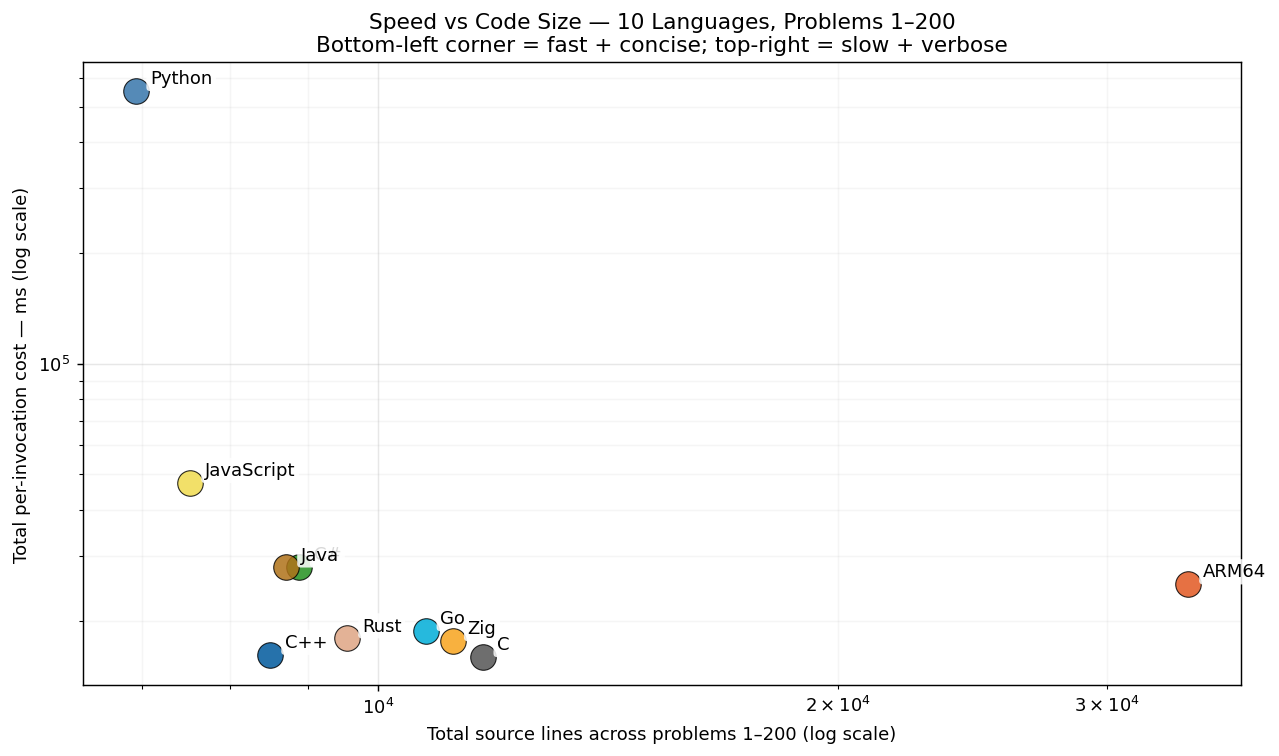
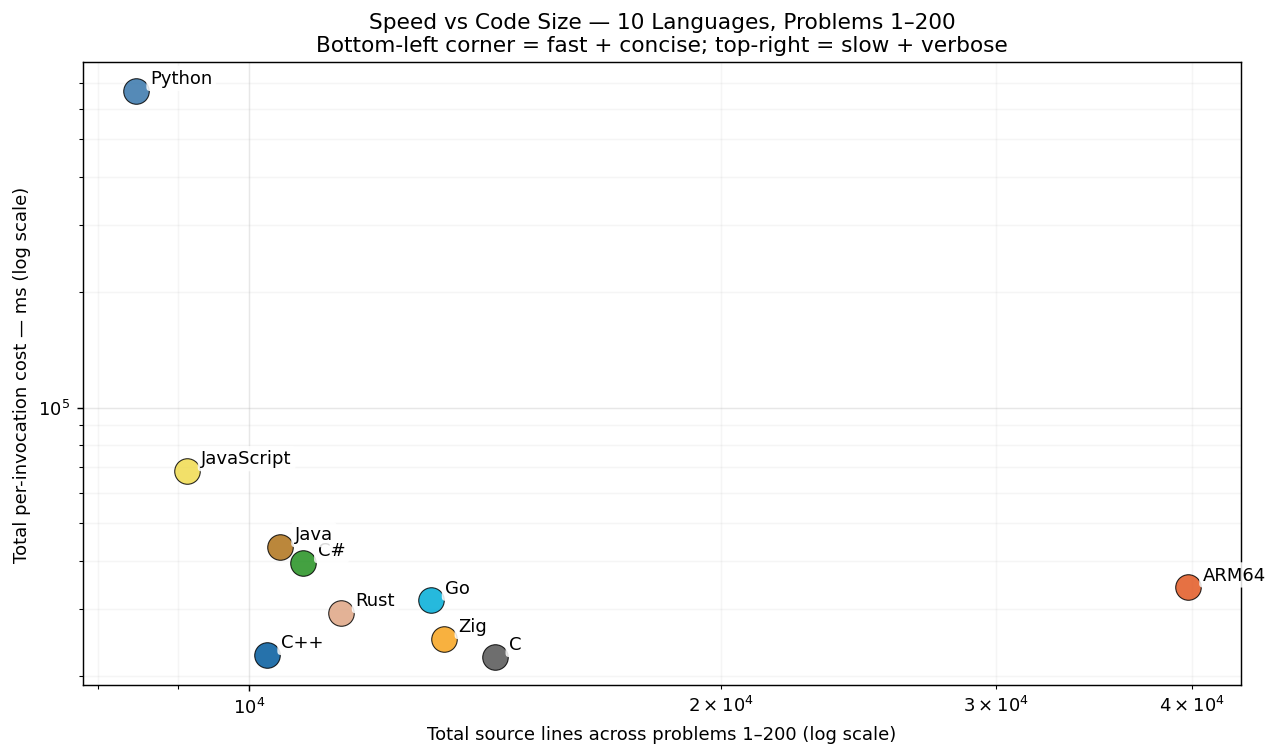
report: add * marker for partial-measurement cells (samples<10) + footnote; publish B4 +85 cells, coverage 1995/2000 (5 p170 cells remain)

diff --git a/report.py b/report.py
@@ -164,6 +164,22 @@ def status_of(entry: dict) -> str:
     return entry.get("status", "missing") or "missing"
 
 
+def samples_of(entry: dict):
+    """Iteration count behind this measurement.
+
+    Suite-standard is `iters=10`; any cell with samples<10 is a partial
+    measurement (median is still meaningful for >1s problems, but variance
+    estimate is degraded). Cells with samples<10 are marked with `*` in
+    the per-problem detail table.
+
+    Returns int or None (missing).
+    """
+    if not entry or entry.get("status") != "pass":
+        return None
+    s = entry.get("samples")
+    return int(s) if s is not None else None
+
+
 def fmt_time(ns: int) -> str:
     """Human-readable nanoseconds.
 
@@ -209,6 +225,7 @@ def aggregate() -> dict:
         per_prob_ns = {p: time_ns(probs.get(p, {})) for p in SCOPE_PROBLEMS}
         per_prob_lines = {p: source_lines(probs.get(p, {})) for p in SCOPE_PROBLEMS}
         per_prob_status = {p: status_of(probs.get(p, {})) for p in SCOPE_PROBLEMS}
+        per_prob_samples = {p: samples_of(probs.get(p, {})) for p in SCOPE_PROBLEMS}
         total_ns = sum(v for v in per_prob_ns.values() if v is not None)
         total_lines = sum(per_prob_lines.values())
         missing = sum(1 for p in SCOPE_PROBLEMS if per_prob_ns[p] is None)
@@ -216,6 +233,7 @@ def aggregate() -> dict:
             "per_problem_ns": per_prob_ns,
             "per_problem_lines": per_prob_lines,
             "per_problem_status": per_prob_status,
+            "per_problem_samples": per_prob_samples,
             "total_ns": total_ns,
             "total_lines": total_lines,
             "missing": missing,
@@ -763,6 +781,9 @@ def render_results_md(agg: dict) -> str:
     display_langs = LANG_DISPLAY_ORDER
     header = "| Problem | " + " | ".join(DISPLAY[l] for l in display_langs) + " |"
     sep    = "|---------|" + "|".join(["----:"] * len(display_langs)) + "|"
+    # Track whether any partial-measurement cells exist so we only emit the
+    # footnote when the marker actually appears in the tables.
+    any_partial = False
     for band_probs in _bands(SCOPE_PROBLEMS, BAND_SIZE):
         md.append(f"### Problems {band_probs[0]}–{band_probs[-1]}")
         md.append("")
@@ -772,8 +793,38 @@ def render_results_md(agg: dict) -> str:
             cells = []
             for lang in display_langs:
                 ns = agg[lang]["per_problem_ns"][p]
-                cells.append(fmt_time(ns) if ns is not None else "—")
+                if ns is None:
+                    cells.append("—")
+                else:
+                    s = agg[lang]["per_problem_samples"][p]
+                    # Suite-standard iters=10; mark partial measurements so a
+                    # reader can tell at-a-glance which cells haven't been
+                    # bench'd to full sample count.
+                    suffix = "*" if (s is not None and s < 10) else ""
+                    cells.append(fmt_time(ns) + suffix)
             md.append(f"| **p{p}** | " + " | ".join(cells) + " |")
+        md.append("")
+
+        # Detect any partial cell in this band for the footnote gate.
+        if not any_partial:
+            for p in band_probs:
+                for lang in display_langs:
+                    s = agg[lang]["per_problem_samples"][p]
+                    if s is not None and s < 10:
+                        any_partial = True
+                        break
+                if any_partial:
+                    break
+
+    if any_partial:
+        md.append(
+            "> \\* — *partial measurement*: cell was bench'd with fewer than the "
+            "suite-standard 10 iterations (typically 1 or 3, for heavy problems "
+            "where iters=10 would exceed the per-chunk wall budget). The median "
+            "is still meaningful for >1s problems, but the variance estimate is "
+            "degraded. These cells are queued for a future uniform-iters=10 "
+            "re-bench pass."
+        )
         md.append("")
 
     md.append("## Method")

diff --git a/RESULTS.md b/RESULTS.md
@@ -1,37 +1,37 @@
 # Project Euler — Cross-Language Benchmarks
 
-> **Scope: 200 problems × 10 languages = 2000 cells, 1910 measured (95.5% coverage).**
-> The cross-language ranking below is computed over the **176-problem common set** (problems where every language has a passing measurement) — the apples-to-apples comparison surface.  Per-language coverage detail appears below the ranking.
+> **Scope: 200 problems × 10 languages = 2000 cells, 1995 measured (99.8% coverage).**
+> The cross-language ranking below is computed over the **199-problem common set** (problems where every language has a passing measurement) — the apples-to-apples comparison surface.  Per-language coverage detail appears below the ranking.
 > Growing carefully — each new problem and language is audited for state-leak
 > safety, verified for answer correctness, and added only when it cleanly fits the
 > measurement methodology.  See [JOURNEY.md](JOURNEY.md) for the full story of how
 > we got here, including the reset from 200+ problems back to a verified 10×10
 > core, then the disciplined expansion to today's 200-problem scope.
 
-## Per-Invocation Cost (Common Set, 176 of 200 problems)
+## Per-Invocation Cost (Common Set, 199 of 200 problems)
 
 We run each program 10 times in fresh OS processes (no warmup, no shared state).
 Each invocation pays full startup + algorithm cost — the cost a real CLI / cron /
 shell-loop user actually pays.  The median wall time across the 10 invocations is
-the headline per-problem number, and the table sums over the 176-problem
+the headline per-problem number, and the table sums over the 199-problem
 common set so partial-coverage languages aren't artificially "faster" than fully-
 covered ones.  Per-language individual coverage (which may be ≥ the common set) is
 shown in the coverage block further down.
 
 ![Per-Invocation Cost](charts/per_iter_total.png)
 
-| Rank | Language | Total (176-problem common set) | Lines of code | vs Fastest |
+| Rank | Language | Total (199-problem common set) | Lines of code | vs Fastest |
 |------|----------|--------------------:|--------------:|-----------:|
-| 1 | **C** | 15.95 s | 11,703 | 1.00× |
-| 2 | **C++** | 16.17 s | 8,498 | 1.01× |
-| 3 | **Zig** | 17.62 s | 11,195 | 1.10× |
-| 4 | **Rust** | 17.93 s | 9,544 | 1.12× |
-| 5 | **Go** | 18.77 s | 10,741 | 1.18× |
-| 6 | **ARM64** | 25.15 s | 33,921 | 1.58× |
-| 7 | **Java** | 27.96 s | 8,705 | 1.75× |
-| 8 | **C#** | 27.99 s | 8,874 | 1.75× |
-| 9 | **JavaScript** | 47.47 s | 7,533 | 2.98× |
-| 10 | **Python** | 553.20 s | 6,934 | 34.68× |
+| 1 | **C** | 22.47 s | 14,346 | 1.00× |
+| 2 | **C++** | 22.75 s | 10,256 | 1.01× |
+| 3 | **Zig** | 25.02 s | 13,310 | 1.11× |
+| 4 | **Rust** | 29.22 s | 11,443 | 1.30× |
+| 5 | **Go** | 31.49 s | 13,062 | 1.40× |
+| 6 | **ARM64** | 34.10 s | 39,793 | 1.52× |
+| 7 | **C#** | 39.45 s | 10,825 | 1.76× |
+| 8 | **Java** | 43.42 s | 10,468 | 1.93× |
+| 9 | **JavaScript** | 68.46 s | 9,123 | 3.05× |
+| 10 | **Python** | 669.59 s | 8,459 | 29.80× |
 
 ## Speed vs Code Size
 
@@ -213,80 +213,82 @@ fixed tier order (native → managed → interpreted).
 | **p124** | 7.84 ms | 7.25 ms | 5.40 ms | 2.45 ms | 6.86 ms | 13.01 ms | 9.55 ms | 17.27 ms | 16.67 ms | 36.21 ms |
 | **p125** | 3.11 ms | 2.60 ms | 2.37 ms | 3.06 ms | 2.45 ms | 3.09 ms | 3.88 ms | 6.12 ms | 63.70 ms | 62.63 ms |
 | **p126** | 3.42 ms | 2.39 ms | 2.18 ms | 2.45 ms | 2.30 ms | 4.63 ms | 7.81 ms | 8.90 ms | 12.92 ms | 932.49 ms |
-| **p127** | 37.07 ms | 31.41 ms | — | — | 29.07 ms | 34.20 ms | — | — | — | 1.10 s |
-| **p128** | 8.53 ms | 6.97 ms | — | — | 6.63 ms | 6.94 ms | — | — | — | 272.33 ms |
+| **p127** | 37.07 ms | 31.41 ms | 29.73 ms | 28.92 ms | 29.07 ms | 34.20 ms | 44.76 ms | 55.95 ms | 55.20 ms | 1.10 s |
+| **p128** | 8.53 ms | 6.97 ms | 6.81 ms | 8.03 ms | 6.63 ms | 6.94 ms | 20.25 ms | 10.94 ms | 11.21 ms | 272.33 ms |
 | **p129** | 9.69 ms | 10.41 ms | 9.93 ms | 10.34 ms | 12.54 ms | 9.74 ms | 10.37 ms | 10.28 ms | 10.59 ms | 139.64 ms |
-| **p130** | 31.49 ms | 31.39 ms | — | — | 37.93 ms | 31.48 ms | — | — | — | 415.08 ms |
+| **p130** | 31.49 ms | 31.39 ms | 32.50 ms | 31.97 ms | 37.93 ms | 31.48 ms | 40.62 ms | 31.61 ms | 35.60 ms | 415.08 ms |
 | **p131** | 42.0 µs | 31.5 µs | 40.0 µs | 38.4 µs | 31.2 µs | 32.1 µs | 295.4 µs | 245.6 µs | 224.1 µs | 1.20 ms |
-| **p132** | 3.40 ms | 3.26 ms | 4.12 ms | 3.30 ms | 4.45 ms | 3.38 ms | 4.41 ms | 28.82 ms | 12.93 ms | — |
+| **p132** | 3.40 ms | 3.26 ms | 4.12 ms | 3.30 ms | 4.45 ms | 3.38 ms | 4.41 ms | 28.82 ms | 12.93 ms | 74.27 ms |
 | **p133** | 2.89 ms | 2.10 ms | 2.84 ms | 3.26 ms | 2.37 ms | 2.21 ms | 3.40 ms | 26.33 ms | 11.20 ms | 22.24 ms |
 | **p134** | 6.17 ms | 5.87 ms | 7.42 ms | 7.30 ms | 6.16 ms | 6.28 ms | 7.84 ms | 73.24 ms | 34.77 ms | 157.17 ms |
 | **p135** | 4.66 ms | 3.46 ms | 3.74 ms | 3.67 ms | 3.11 ms | 4.60 ms | 4.38 ms | 8.62 ms | 9.37 ms | 353.35 ms |
-| **p136** | 640.13 ms | 494.10 ms | 446.25 ms | 555.54 ms | 490.94 ms | 533.67 ms | 654.83 ms | 669.97 ms | 963.87 ms | — |
+| **p136** | 640.13 ms | 494.10 ms | 446.25 ms | 555.54 ms | 490.94 ms | 533.67 ms | 654.83 ms | 669.97 ms | 963.87 ms | 26.64 s |
 | **p137** | 0 ns | 125 ns | 291 ns | 42 ns | 125 ns | 1.8 µs | 75.0 µs | 2.7 µs | 24.5 µs | 5.7 µs |
 | **p138** | 0 ns | 42 ns | 42 ns | 42 ns | 83 ns | 1.5 µs | 52.4 µs | 1.8 µs | 11.8 µs | 2.9 µs |
 | **p139** | 235.19 ms | 227.09 ms | 224.31 ms | 224.24 ms | 302.89 ms | 236.94 ms | 264.99 ms | 258.89 ms | 273.44 ms | 2.13 s |
-| **p140** | 8.0 µs | 3.4 µs | 4.5 µs | 5.6 µs | 2.2 µs | 7.1 µs | 1.29 ms | 167.7 µs | 160.0 µs | — |
-| **p141** | 1.48 s | 1.45 s | 1.44 s | 1.44 s | 1.97 s | 1.49 s | 1.60 s | 1.60 s | 1.76 s | 9.00 s |
+| **p140** | 8.0 µs | 3.4 µs | 4.5 µs | 5.6 µs | 2.2 µs | 7.1 µs | 1.29 ms | 167.7 µs | 160.0 µs | 70.8 µs |
+| **p141** | 1.48 s | 1.45 s | 1.44 s | 1.44 s | 1.97 s | 1.49 s | 1.60 s | 1.60 s | 1.76 s | 9.00 s* |
 | **p142** | 2.26 ms | 2.77 ms | 2.05 ms | 2.60 ms | 2.48 ms | 2.16 ms | 2.88 ms | 6.01 ms | 9.04 ms | 110.37 ms |
-| **p143** | 47.42 ms | 18.18 ms | — | — | 19.49 ms | 28.62 ms | — | — | — | — |
+| **p143** | 47.42 ms | 18.18 ms | 16.59 ms | 110.14 ms | 19.49 ms | 28.62 ms | 67.32 ms | 73.20 ms | 42.90 ms | 320.93 ms |
 | **p144** | 14.0 µs | 11.6 µs | 9.1 µs | 12.5 µs | 13.0 µs | 13.3 µs | 142.6 µs | 59.2 µs | 142.8 µs | 134.1 µs |
-| **p145** | 76.61 ms | 45.40 ms | 45.48 ms | 47.92 ms | 45.46 ms | 84.34 ms | 75.27 ms | 102.87 ms | 168.21 ms | — |
-| **p146** | 9.47 s | 2.85 s | 2.89 s | 2.94 s | 2.77 s | 2.93 s | 7.41 s | 4.09 s | 9.57 s | 19.21 s |
+| **p145** | 76.61 ms | 45.40 ms | 45.48 ms | 47.92 ms | 45.46 ms | 84.34 ms | 75.27 ms | 102.87 ms | 168.21 ms | 4.72 s |
+| **p146** | 9.47 s | 2.85 s | 2.89 s* | 2.94 s* | 2.77 s | 2.93 s | 7.41 s* | 4.09 s* | 9.57 s* | 19.21 s* |
 | **p147** | 5.09 ms | 1.43 ms | 1.99 ms | 6.17 ms | 2.63 ms | 3.34 ms | 4.80 ms | 7.64 ms | 9.26 ms | 528.01 ms |
 | **p148** | 0 ns | 42 ns | 167 ns | 3.2 µs | 42 ns | 5.0 µs | 128.7 µs | 3.1 µs | 37.2 µs | 8.1 µs |
-| **p149** | 42.95 ms | 44.93 ms | — | — | 48.34 ms | 52.98 ms | — | — | — | 2.01 s |
+| **p149** | 42.95 ms | 44.93 ms | 37.89 ms | 78.41 ms | 48.34 ms | 52.98 ms | 70.81 ms | 87.47 ms | 98.05 ms | 2.01 s |
 | **p150** | 127.03 ms | 158.85 ms | 158.33 ms | 179.99 ms | 123.28 ms | 226.44 ms | 232.78 ms | 242.33 ms | 553.92 ms | 16.64 s |
 | **p151** | 11.0 µs | 1.9 µs | 2.7 µs | 3.6 µs | 1.8 µs | 3.9 µs | 605.3 µs | 52.2 µs | 83.0 µs | 41.8 µs |
-| **p152** | 1.62 s | 783.50 ms | 754.11 ms | 707.69 ms | 766.73 ms | 1.22 s | 1.01 s | 887.04 ms | 5.66 s | 815.61 ms |
-| **p153** | 2.41 s | 2.38 s | 2.39 s | 2.31 s | 3.15 s | 2.43 s | 2.74 s | 2.45 s | 7.09 s | 32.80 s |
-| **p154** | 3.47 s | 2.68 s | 2.69 s | 4.04 s | 3.10 s | 3.92 s | 5.31 s | 6.20 s | 9.36 s | 292.18 s |
-| **p155** | 811.52 ms | 598.02 ms | 611.56 ms | 1.10 s | 612.28 ms | 837.06 ms | 1.31 s | 3.06 s | 982.12 ms | 7.34 s |
-| **p156** | 143.76 ms | 90.24 ms | — | — | 77.07 ms | 126.54 ms | — | — | — | 7.37 s |
+| **p152** | 1.62 s | 783.50 ms | 754.11 ms | 707.69 ms | 766.73 ms | 1.22 s | 1.01 s | 887.04 ms | 5.66 s | 815.61 ms* |
+| **p153** | 2.41 s | 2.38 s | 2.39 s* | 2.31 s* | 3.15 s | 2.43 s | 2.74 s* | 2.45 s* | 7.09 s* | 32.80 s* |
+| **p154** | 3.47 s | 2.68 s | 2.69 s* | 4.04 s* | 3.10 s | 3.92 s | 5.31 s* | 6.20 s* | 9.36 s* | 292.18 s* |
+| **p155** | 811.52 ms | 598.02 ms | 611.56 ms | 1.10 s | 612.28 ms | 837.06 ms | 1.31 s | 3.06 s | 982.12 ms | 7.34 s* |
+| **p156** | 143.76 ms | 90.24 ms | 88.25 ms | 79.98 ms | 77.07 ms | 126.54 ms | 249.35 ms | 107.89 ms | 1.06 s | 7.37 s |
 | **p157** | 6.53 ms | 5.66 ms | 6.12 ms | 5.60 ms | 4.87 ms | 5.30 ms | 7.18 ms | 6.99 ms | 8.91 ms | 234.05 ms |
 | **p158** | 0 ns | 41 ns | 42 ns | 125 ns | 42 ns | 1.2 µs | 73.9 µs | 3.3 µs | 18.1 µs | 7.7 µs |
-| **p159** | 13.19 ms | 19.29 ms | — | — | 12.28 ms | 19.70 ms | — | — | — | 869.70 ms |
+| **p159** | 13.19 ms | 19.29 ms | 11.74 ms | 15.30 ms | 12.28 ms | 19.70 ms | 17.21 ms | 27.06 ms | 1.51 ms | 869.70 ms |
 | **p160** | 287.0 µs | 245.7 µs | 246.0 µs | 206.0 µs | 309.5 µs | 248.3 µs | 1.10 ms | 1.59 ms | 4.22 ms | 3.07 ms |
-| **p161** | 47.17 ms | 29.87 ms | — | — | 27.07 ms | 46.05 ms | — | — | — | 2.07 s |
+| **p161** | 47.17 ms | 29.87 ms | 27.98 ms | 26.66 ms | 27.07 ms | 46.05 ms | 55.89 ms | 80.92 ms | 146.29 ms | 2.07 s |
 | **p162** | 0 ns | 41 ns | 42 ns | 1.2 µs | 42 ns | 8.0 µs | 2.16 ms | 816.2 µs | 28.7 µs | 9.3 µs |
 | **p163** | 150.42 ms | 115.47 ms | 125.49 ms | 145.47 ms | 144.29 ms | 167.05 ms | 318.99 ms | 243.46 ms | 543.77 ms | 2.71 s |
 | **p164** | 6.0 µs | 5.8 µs | 4.6 µs | 6.8 µs | 5.2 µs | 6.8 µs | 595.1 µs | 139.9 µs | 261.8 µs | 333.1 µs |
-| **p165** | 660.91 ms | 607.31 ms | 553.40 ms | 418.99 ms | 608.29 ms | 879.32 ms | 743.63 ms | 1.88 s | 2.69 s | 6.95 s |
-| **p166** | 171.29 ms | 24.53 ms | — | — | 17.02 ms | 162.78 ms | — | — | — | — |
-| **p167** | 129.05 ms | 122.85 ms | — | — | 138.54 ms | 130.05 ms | — | — | — | 7.37 s |
+| **p165** | 660.91 ms | 607.31 ms | 553.40 ms | 418.99 ms | 608.29 ms | 879.32 ms | 743.63 ms | 1.88 s | 2.69 s | 6.95 s* |
+| **p166** | 171.29 ms | 24.53 ms | 24.29 ms | 87.76 ms | 17.02 ms | 162.78 ms | 157.58 ms | 180.46 ms | 205.74 ms | 8.91 s |
+| **p167** | 129.05 ms | 122.85 ms | 127.29 ms | 126.88 ms | 138.54 ms | 130.05 ms | 139.25 ms | 161.03 ms | 236.92 ms | 7.37 s |
 | **p168** | 32.0 µs | 25.5 µs | 21.7 µs | 31.5 µs | 27.3 µs | 33.1 µs | 248.5 µs | 197.8 µs | 274.0 µs | 533.3 µs |
 | **p169** | 1.0 µs | 167 ns | 208 ns | 2.0 µs | 208 ns | 10.7 µs | 411.8 µs | 533.3 µs | 40.0 µs | 13.9 µs |
-| **p170** | 39.50 s | 39.45 s | 38.41 s | — | 38.48 s | 40.38 s | — | — | — | — |
+| **p170** | 39.50 s | 39.45 s | 38.41 s* | — | 38.48 s | 40.38 s | — | — | — | — |
 | **p171** | 2.90 ms | 1.46 ms | 2.05 ms | 2.20 ms | 2.14 ms | 3.20 ms | 4.00 ms | 7.25 ms | 20.31 ms | 150.21 ms |
 | **p172** | 3.0 µs | 2.1 µs | 3.3 µs | 4.1 µs | 2.5 µs | 6.5 µs | 614.7 µs | 41.0 µs | 122.8 µs | 118.7 µs |
 | **p173** | 10.02 ms | 536.7 µs | 634.2 µs | 621.5 µs | 590.8 µs | 740.6 µs | 1.11 ms | 9.07 ms | 3.50 ms | 92.81 ms |
 | **p174** | 3.50 ms | 2.68 ms | 2.63 ms | 2.73 ms | 2.09 ms | 3.08 ms | 3.20 ms | 5.94 ms | 5.67 ms | 166.08 ms |
 | **p175** | 0 ns | 208 ns | 125 ns | 1.4 µs | 125 ns | 1.5 µs | 155.0 µs | 3.4 µs | 30.5 µs | 4.0 µs |
 | **p176** | 285.0 µs | 16.5 µs | 11.2 µs | 27.2 µs | 62.0 µs | 40.1 µs | 733.4 µs | 346.5 µs | 391.3 µs | 392.5 µs |
-| **p177** | 6.55 s | 4.57 s | 4.60 s | 9.18 s | 5.07 s | 10.05 s | 6.75 s | 11.44 s | 15.08 s | — |
+| **p177** | 6.55 s | 4.57 s | 4.60 s* | 9.18 s* | 5.07 s | 10.05 s | 6.75 s* | 11.44 s* | 15.08 s* | 12.78 s* |
 | **p178** | 351.0 µs | 589.2 µs | 481.2 µs | 580.0 µs | 509.8 µs | 536.4 µs | 1.91 ms | 3.16 ms | 6.78 ms | 11.14 ms |
 | **p179** | 192.94 ms | 260.81 ms | 245.28 ms | 244.51 ms | 281.21 ms | 441.64 ms | 379.50 ms | 307.46 ms | 16.82 ms | 11.61 s |
-| **p180** | 9.13 ms | 22.94 ms | — | — | 23.36 ms | 29.96 ms | — | — | — | 138.05 ms |
+| **p180** | 9.13 ms | 22.94 ms | 21.62 ms | 15.39 ms | 23.36 ms | 29.96 ms | 33.91 ms | 75.84 ms | 132.27 ms | 138.05 ms |
 | **p181** | 3.46 ms | 7.51 ms | 8.95 ms | 9.26 ms | 7.99 ms | 17.16 ms | 22.49 ms | 29.97 ms | 5.8 µs | 1.45 s |
-| **p182** | 203.40 ms | 202.46 ms | — | — | 278.88 ms | 206.15 ms | — | — | — | 421.37 ms |
+| **p182** | 203.40 ms | 202.46 ms | 200.60 ms | 202.36 ms | 278.88 ms | 206.15 ms | 233.53 ms | 209.03 ms | 478.53 ms | 421.37 ms |
 | **p183** | 936.0 µs | 735.8 µs | 1.02 ms | 714.2 µs | 828.7 µs | 867.2 µs | 1.44 ms | 1.97 ms | 1.39 ms | 4.12 ms |
 | **p184** | 2.83 ms | 3.61 ms | 3.36 ms | 2.03 ms | 2.52 ms | 5.85 ms | 6.29 ms | 13.92 ms | 12.33 ms | 56.41 ms |
-| **p185** | 94.79 ms | 219.9 µs | — | — | 47.87 ms | 25.32 ms | — | — | — | 967.15 ms |
-| **p186** | 32.91 ms | 39.25 ms | — | — | 44.76 ms | 76.42 ms | — | — | — | 1.71 s |
-| **p187** | 397.35 ms | 431.12 ms | 390.52 ms | 353.55 ms | 366.35 ms | 398.51 ms | 448.70 ms | 464.09 ms | 514.60 ms | — |
+| **p185** | 94.79 ms | 219.9 µs | 159.25 ms | 426.6 µs | 47.87 ms | 25.32 ms | 1.39 s | 572.82 ms | 154.80 ms | 967.15 ms |
+| **p186** | 32.91 ms | 39.25 ms | 39.51 ms | 46.57 ms | 44.76 ms | 76.42 ms | 51.78 ms | 68.69 ms | 137.74 ms | 1.71 s |
+| **p187** | 397.35 ms | 431.12 ms | 390.52 ms | 353.55 ms | 366.35 ms | 398.51 ms | 448.70 ms | 464.09 ms | 514.60 ms | 8.23 s |
 | **p188** | 6.0 µs | 2.8 µs | 3.4 µs | 3.4 µs | 3.2 µs | 22.2 µs | 169.0 µs | 17.1 µs | 72.8 µs | 33.6 µs |
-| **p189** | 116.94 ms | 133.45 ms | 130.56 ms | 147.60 ms | 170.35 ms | 313.10 ms | 435.33 ms | 335.28 ms | 609.88 ms | — |
+| **p189** | 116.94 ms | 133.45 ms | 130.56 ms | 147.60 ms | 170.35 ms | 313.10 ms | 435.33 ms | 335.28 ms | 609.88 ms | 17.83 s |
 | **p190** | 2.0 µs | 1.3 µs | 1.3 µs | 1.1 µs | 1.3 µs | 4.0 µs | 86.2 µs | 20.2 µs | 29.4 µs | 28.2 µs |
 | **p191** | 1.0 µs | 792 ns | 666 ns | 833 ns | 792 ns | 2.5 µs | 496.6 µs | 19.8 µs | 67.6 µs | 44.6 µs |
-| **p192** | 19.04 ms | 18.85 ms | — | — | 29.24 ms | 48.78 ms | — | — | — | 425.42 ms |
+| **p192** | 19.04 ms | 18.85 ms | 18.61 ms | 18.83 ms | 29.24 ms | 48.78 ms | 54.80 ms | 68.30 ms | 68.69 ms | 425.42 ms |
 | **p193** | 309.78 ms | 251.43 ms | 262.41 ms | 306.14 ms | 255.11 ms | 358.61 ms | 321.62 ms | 324.36 ms | 1.21 s | 8.34 s |
 | **p194** | 4.0 µs | 1.8 µs | 2.3 µs | 2.3 µs | 4.7 µs | 3.7 µs | 323.8 µs | 46.2 µs | 204.3 µs | 6.3 µs |
 | **p195** | 233.82 ms | 229.28 ms | 226.20 ms | 224.39 ms | 313.32 ms | 231.73 ms | 244.36 ms | 237.90 ms | 279.37 ms | 1.07 s |
 | **p196** | 151.93 ms | 137.90 ms | 337.22 ms | 138.70 ms | 140.27 ms | 159.54 ms | 203.78 ms | 210.87 ms | 291.55 ms | 1.47 s |
 | **p197** | 29.0 µs | 22.0 µs | 18.2 µs | 22.5 µs | 41.5 µs | 77.4 µs | 104.4 µs | 295.8 µs | 128.2 µs | 96.6 µs |
-| **p198** | 131.20 ms | 136.01 ms | 113.03 ms | 121.75 ms | 418.20 ms | 311.53 ms | 467.51 ms | 608.24 ms | 786.18 ms | — |
+| **p198** | 131.20 ms | 136.01 ms | 113.03 ms | 121.75 ms | 418.20 ms | 311.53 ms | 467.51 ms | 608.24 ms | 786.18 ms | 11.76 s |
 | **p199** | 2.05 ms | 694.6 µs | 743.6 µs | 593.3 µs | 649.2 µs | 1.63 ms | 1.85 ms | 1.41 ms | 3.42 ms | 27.38 ms |
 | **p200** | 76.67 ms | 10.53 ms | 11.19 ms | 10.12 ms | 10.04 ms | 10.23 ms | 50.04 ms | 52.36 ms | 42.71 ms | 162.67 ms |
+
+> \* — *partial measurement*: cell was bench'd with fewer than the suite-standard 10 iterations (typically 1 or 3, for heavy problems where iters=10 would exceed the per-chunk wall budget). The median is still meaningful for >1s problems, but the variance estimate is degraded. These cells are queued for a future uniform-iters=10 re-bench pass.
 
 ## Method
 
